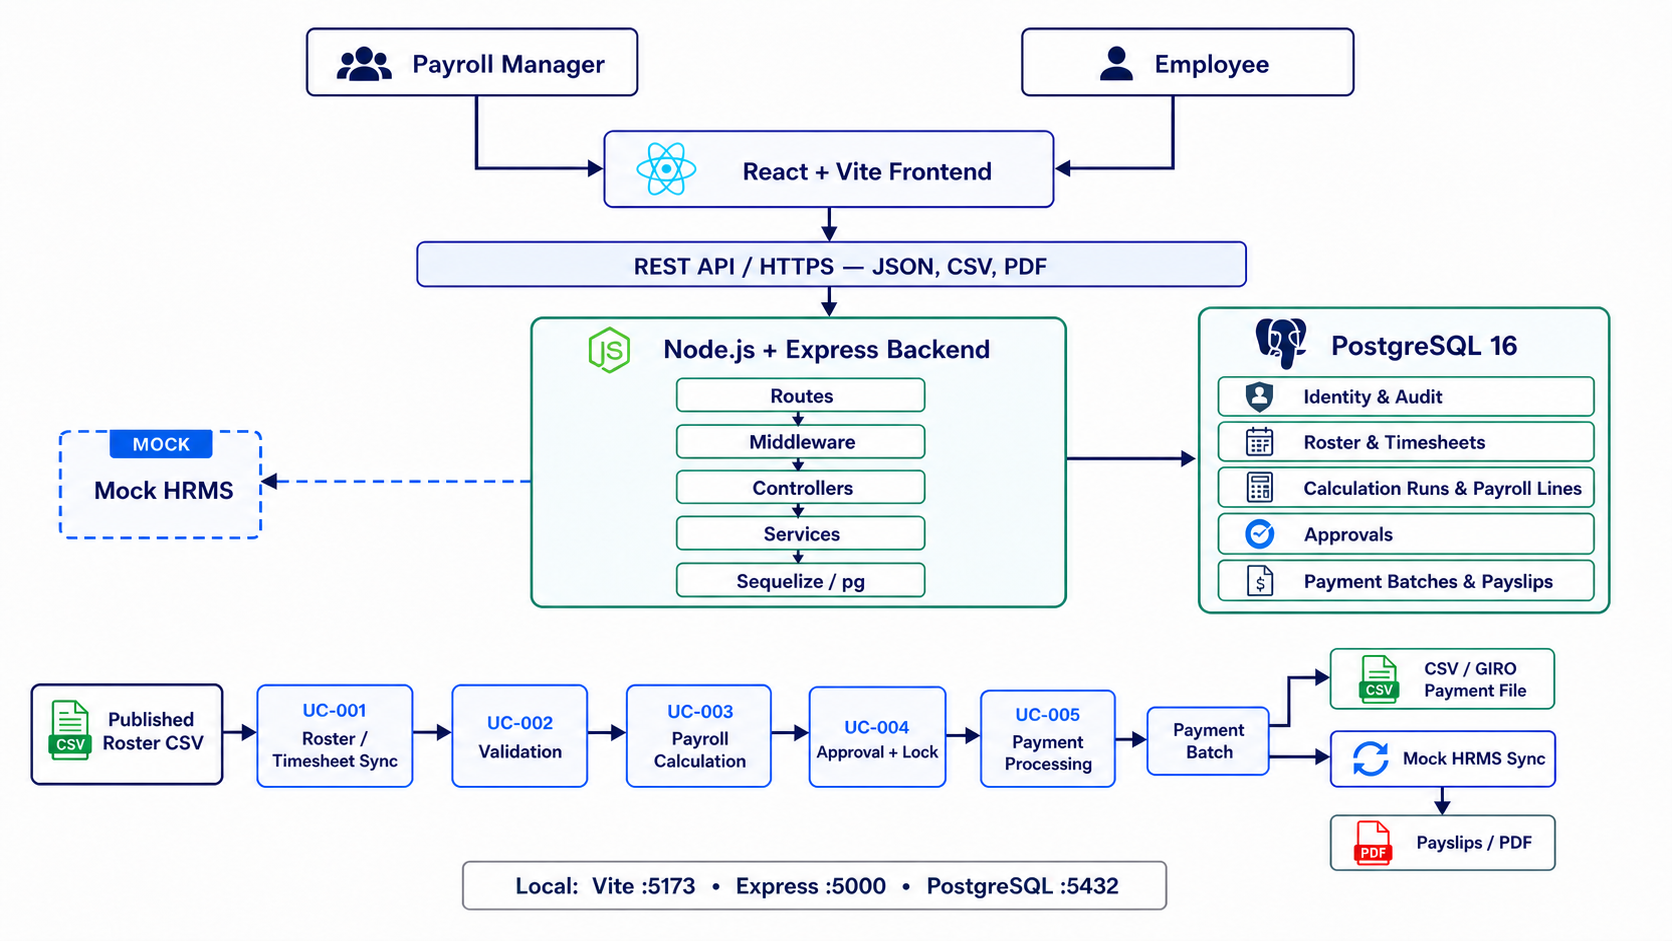
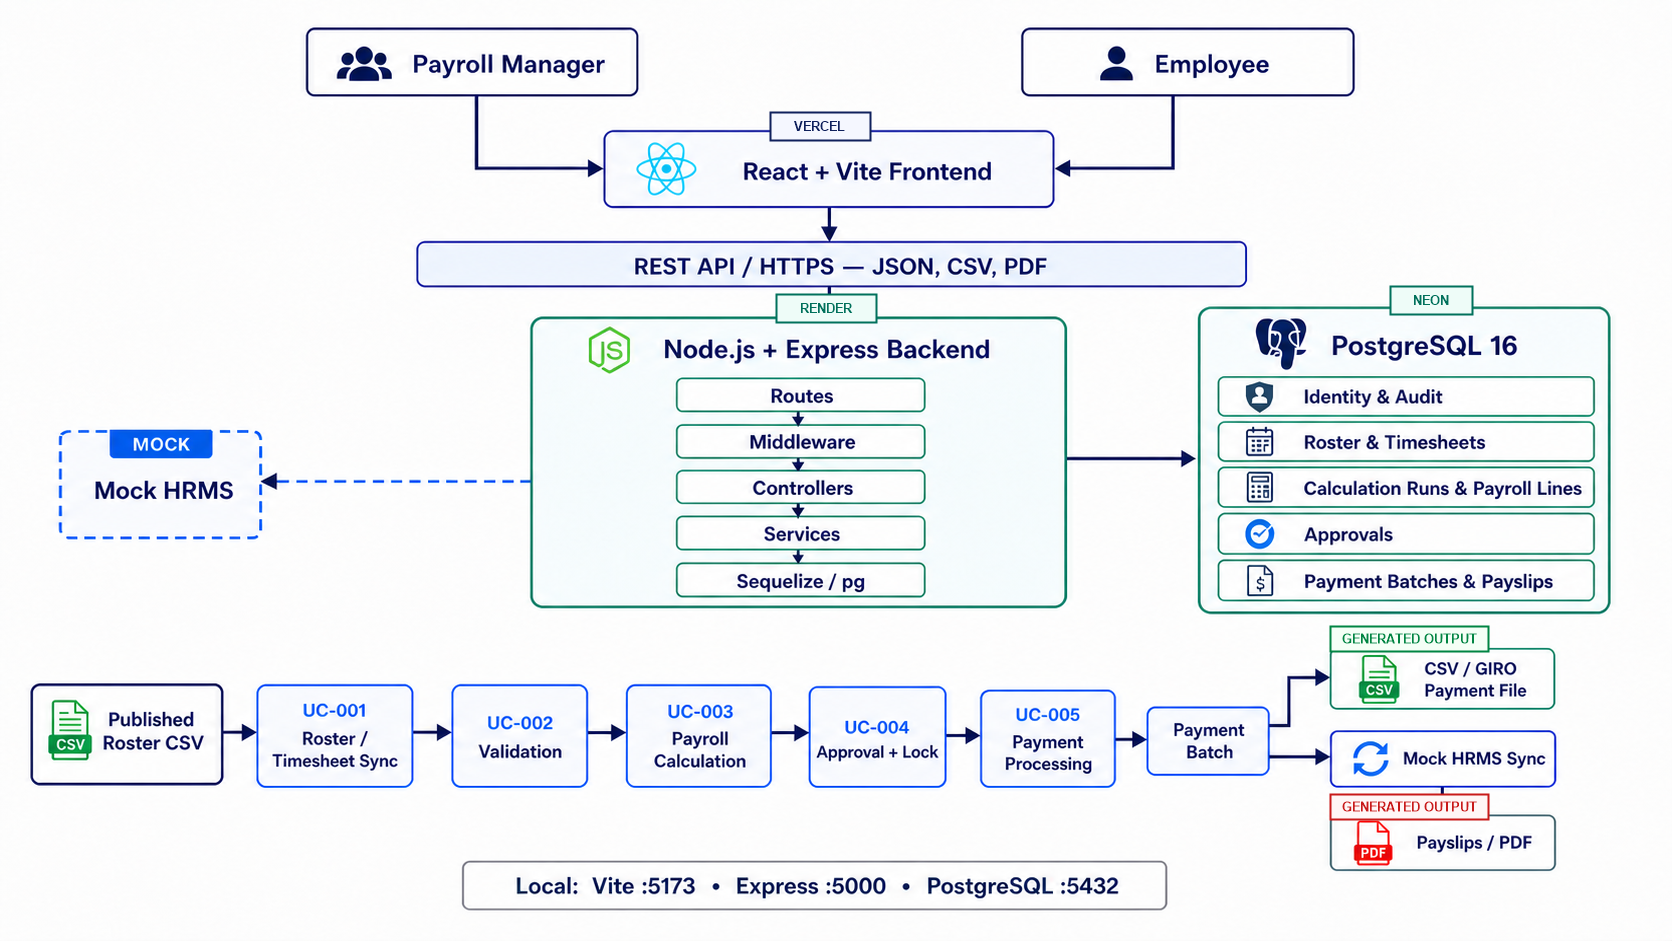
docs: finalize production deployment documentation

diff --git a/README.md b/README.md
@@ -21,7 +21,7 @@ Payroll Automation is an integrated full-stack application that carries payroll 
 | Database | PostgreSQL 16, SQL migrations and integrated SQL seeds, Docker Compose locally |
 | Security | JWT, bcrypt, Helmet, CORS, login rate limiting, role authorization |
 | Testing | Jest, Supertest, disposable PostgreSQL test databases |
-| Intended deployment | Vercel frontend, Render backend, managed PostgreSQL; not deployed yet |
+| Deployment | Vercel frontend, Render backend, Neon PostgreSQL |
 
 ## Repository Structure
 
@@ -84,17 +84,19 @@ Copy [.env.example](.env.example) and replace placeholder secrets locally. Do no
 
 ## Database Setup
 
-Local PostgreSQL runs in Docker on port `5432`. The migration runner applies all 20 retained migrations in `backend/src/db/migrations/` and records them in `schema_migrations`. Migration history is intentionally preserved; add a new migration rather than rewriting an applied one.
+Local PostgreSQL runs in Docker on port `5432`. The migration runner applies all 22 retained migrations in `backend/src/db/migrations/` and records them in `schema_migrations`. Migration history is intentionally preserved; add a new migration rather than rewriting an applied one.
 
-The seed runner executes these six files in order:
+The seed runner automatically executes all eight current SQL seed files in filename order. The original integrated set contained six files; `011_uc001_roster_expanded.sql` and `060_uc004_demo_pending.sql` were integrated later and are also executed by `npm run seed`.
 
 ```text
 001_shared_reference.sql
 010_uc001_roster.sql
+011_uc001_roster_expanded.sql
 020_uc002_validation.sql
 030_uc003_calculation.sql
 040_uc004_approval.sql
 050_uc005_payment.sql
+060_uc004_demo_pending.sql
 ```
 
 The current baseline contains seven non-overlapping pay periods, including one draft period. Seeds are intended for local demonstration and testing, not production data.
@@ -156,19 +158,36 @@ npm run build
 
 ## Deployment
 
-The project has **not been deployed yet**.
+Production deployment is complete on the `main` branch.
 
-**Public Application URL: To be added after deployment.**
+## Live Deployment
 
-Intended deployment procedure:
+- Frontend: [https://payroll-automation-three.vercel.app](https://payroll-automation-three.vercel.app/)
+- Backend API: [https://payroll-automation-zekw.onrender.com](https://payroll-automation-zekw.onrender.com/)
+- Health Check: [https://payroll-automation-zekw.onrender.com/health](https://payroll-automation-zekw.onrender.com/health)
+- Deployment stack: Vercel -> Render -> Neon PostgreSQL
 
-1. Provision a managed PostgreSQL database and set its SSL connection string as backend `DATABASE_URL`.
-2. Deploy `backend/` to Render (or an equivalent Node host), install dependencies, run `npm run migrate`, optionally load demonstration seeds only when explicitly required, and start with `npm start`.
-3. Configure backend production variables: `NODE_ENV=production`, a strong `JWT_SECRET`, `JWT_EXPIRES_IN`, `FRONTEND_URL`, `DATABASE_URL`, `HRMS_MODE=mock`, `GENERATE_PAY_PERIODS_ON_STARTUP=false`, and integration settings that are actually used.
-4. Deploy `frontend/` to Vercel (or an equivalent static host) using `npm run build` and set `VITE_BACKEND_URL` to the public backend origin.
-5. Set backend `FRONTEND_URL` to the final frontend origin, rerun migrations for the target database and perform authentication, workflow, file-download and authorization smoke tests.
+### Production configuration
 
-Do not publish local database credentials or seed passwords. HRMS remains in mock mode because no real external HRMS API is available.
+Render deploys the backend from the repository root with **Root Directory** left blank:
+
+```text
+Build Command: npm ci --prefix backend
+Start Command: npm --prefix backend start
+Health Check Path: /health
+```
+
+The Render environment uses `NODE_ENV=production`, a Neon pooled connection in `DATABASE_URL`, `FRONTEND_URL=https://payroll-automation-three.vercel.app`, `HRMS_MODE=mock`, and `GENERATE_PAY_PERIODS_ON_STARTUP=false`. Render supplies the runtime port. Secrets and database connection strings must not be published.
+
+Vercel deploys the `main` branch with **Root Directory** `frontend`, framework **Vite**, build command `npm run build`, and output directory `dist`. `VITE_BACKEND_URL=https://payroll-automation-zekw.onrender.com` points the frontend to Render. [`frontend/vercel.json`](frontend/vercel.json) provides the SPA fallback rewrite.
+
+Neon hosts the production PostgreSQL database. Migrations were applied using a direct connection, while the running Render backend uses a pooled connection. Connection strings and credentials are intentionally omitted.
+
+Production smoke testing verified that the login page loads, valid manager authentication succeeds, invalid credentials display “Invalid email or password.”, protected routes redirect unauthenticated users to login, the manager dashboard loads API data, and `/health` reports `{"status":"ok","database":"connected"}`. UC-001 through UC-004 pages were also manually checked with no blocking issue observed.
+
+External file storage is not required by the implemented design. CSV/GIRO payment files and payslip PDFs are generated on demand and are not persisted as uploaded assets in Cloudinary, Google Drive, or equivalent storage.
+
+HRMS remains in mock mode because no real external HRMS API is available.
 
 ## Documentation
 

diff --git a/docs/architecture.md b/docs/architecture.md
@@ -6,10 +6,10 @@ Payroll Automation uses a three-tier web architecture. A React/Vite single-page 
 
 ```mermaid
 flowchart LR
-    M[Payroll Manager] --> F[React + Vite frontend]
+    M[Payroll Manager] --> F[Vercel — React + Vite frontend]
     E[Employee] --> F
-    F -->|HTTPS / REST JSON, CSV, PDF| A[Node.js + Express API]
-    A -->|Sequelize and pg| D[(PostgreSQL)]
+    F -->|HTTPS / REST JSON, CSV, PDF| A[Render — Node.js + Express API]
+    A -->|Sequelize and pg| D[(Neon PostgreSQL)]
     G[Published roster CSV] -->|UC-001 import| A
     A -->|UC-005 mock sync| H[Mock HRMS]
 
@@ -18,9 +18,9 @@ flowchart LR
       U2 --> U3[UC-003 Calculation]
       U3 --> U4[UC-004 Approval + Lock]
       U4 --> U5[UC-005 Payment Readiness]
-      U5 --> PB[Payment Batch + CSV/GIRO]
+      U5 --> PB[Payment Batch + CSV/GIRO generated output]
       PB --> HS[Mock HRMS Sync]
-      HS --> PS[Payslips]
+      HS --> PS[Payslips / PDF generated output]
     end
 
     A --- Workflow
@@ -80,7 +80,7 @@ Success response shapes are endpoint-specific because integrated controllers com
 
 ## 6. Database Architecture
 
-The 20 retained SQL migrations form an incremental compatibility history. Current logical entity groups are:
+The 22 retained SQL migrations form an incremental compatibility history. Current logical entity groups are:
 
 | Group | Important canonical entities |
 | --- | --- |
@@ -111,7 +111,7 @@ The project does not claim encryption at rest; production database security is t
 
 `backend/tests/` is the authoritative Jest root. Supertest exercises the Express API, while unit and integration suites cover calculation and infrastructure behavior. Member folders under root `tests/` are individual evidence and are excluded from Jest discovery.
 
-`backend/scripts/run-tests.js` obtains an administrative PostgreSQL connection, creates a uniquely named `payroll_jest_test_*` database, applies all migrations and six seeds, runs Jest serially and drops the database in `finally`. Guards reject an empty name, a non-owned name or the protected `payroll_automation` database.
+`backend/scripts/run-tests.js` obtains an administrative PostgreSQL connection, creates a uniquely named `payroll_jest_test_*` database, applies all migrations and all eight automatically executed SQL seed files, runs Jest serially and drops the database in `finally`. The original integrated seed set contained six files; `011_uc001_roster_expanded.sql` and `060_uc004_demo_pending.sql` were integrated later and are now included automatically by `npm run seed`. Guards reject an empty name, a non-owned name or the protected `payroll_automation` database.
 
 Current verified result: **20 suites, 183 tests, 0 failures, 0 skipped/todo**. The committed coverage collection is broader and UC-003-oriented, so its global threshold can fail even when every test passes; this is separate from functional suite status and individual evidence.
 
@@ -129,16 +129,25 @@ The backend also exposes `/health` and `/api/health`. The roster adapter reads `
 
 ## 10. Deployment Architecture
 
-Deployment has not yet occurred. The intended architecture is:
+The production system is deployed from the `main` branch using this architecture:
 
 ```text
-Users -> Vercel static frontend -> Render Node/Express service
-                                      |-> managed PostgreSQL (SSL)
-                                      |-> published roster CSV
-                                      `-> mock HRMS adapter
+Payroll Manager / Employee
+    -> Vercel — React/Vite frontend
+    -> HTTPS REST API
+    -> Render — Node.js/Express backend
+         |-> Neon PostgreSQL
+         |<- published roster CSV (UC-001 input)
+         |-> CSV/GIRO payment files (generated on demand)
+         |-> Mock HRMS (UC-005 integration)
+         `-> payslip PDFs (generated on demand)
 ```
 
-The equivalent providers may be changed before deployment. The frontend needs the public backend origin at build time; the backend needs the final frontend origin for CORS, a managed `DATABASE_URL`, a strong JWT secret and production mode. Migrations must run against the managed database before traffic. Seeds should be loaded only if demonstration data is intentionally required. No public URL or completed smoke test is claimed yet.
+The frontend is deployed on Vercel at [https://payroll-automation-three.vercel.app](https://payroll-automation-three.vercel.app/) and the backend is deployed on Render at [https://payroll-automation-zekw.onrender.com](https://payroll-automation-zekw.onrender.com/). PostgreSQL is hosted on Neon. The Render [`/health`](https://payroll-automation-zekw.onrender.com/health) endpoint verifies backend and database connectivity and has returned `{"status":"ok","database":"connected"}` in production.
+
+Render uses its environment-provided port. Local development continues to use Vite on `5173`, Express on `5000`, and PostgreSQL on `5432`; production users access the provider HTTPS URLs rather than those local ports.
+
+CSV/GIRO payment files and payslip PDFs are generated on demand. The implemented design does not require Cloudinary, Google Drive, or another external persistent file-storage service, and the generated outputs are not represented as cloud-stored assets.
 
 ## 11. Key Design Decisions
 
